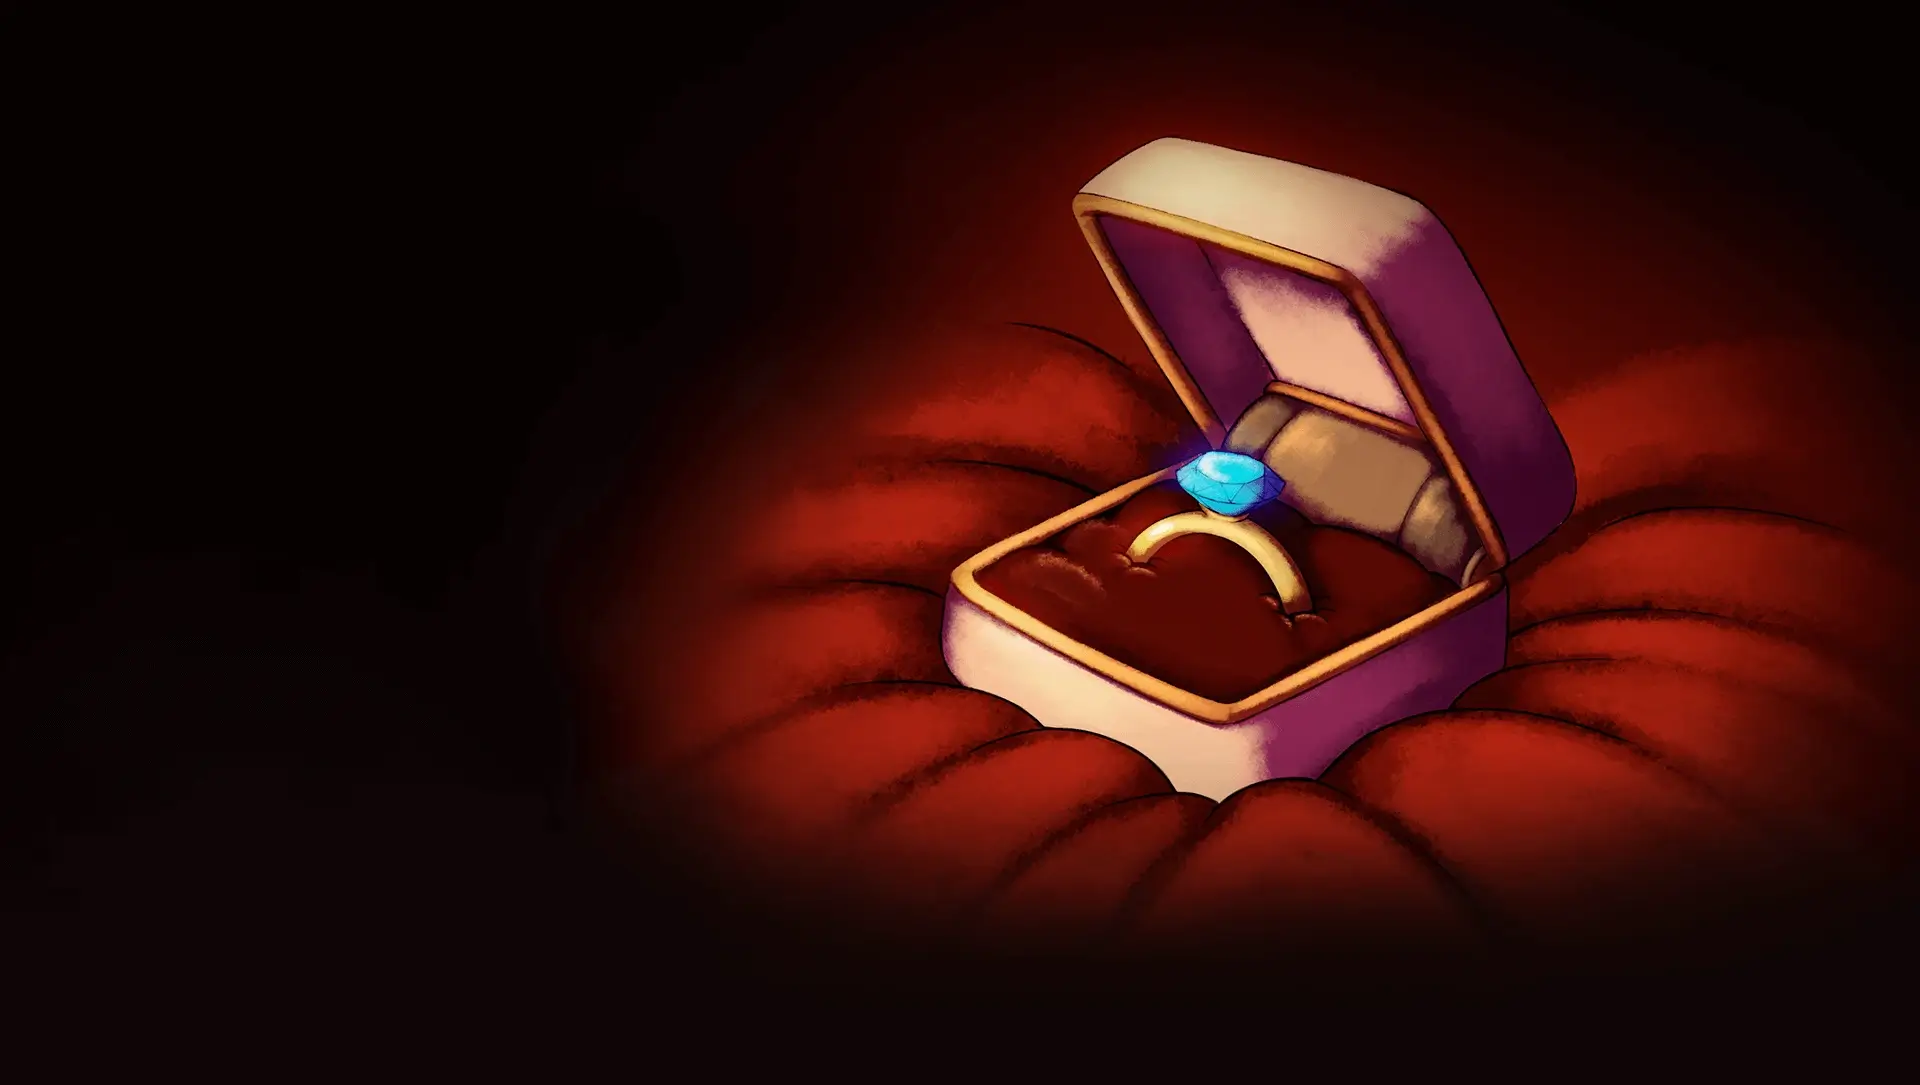
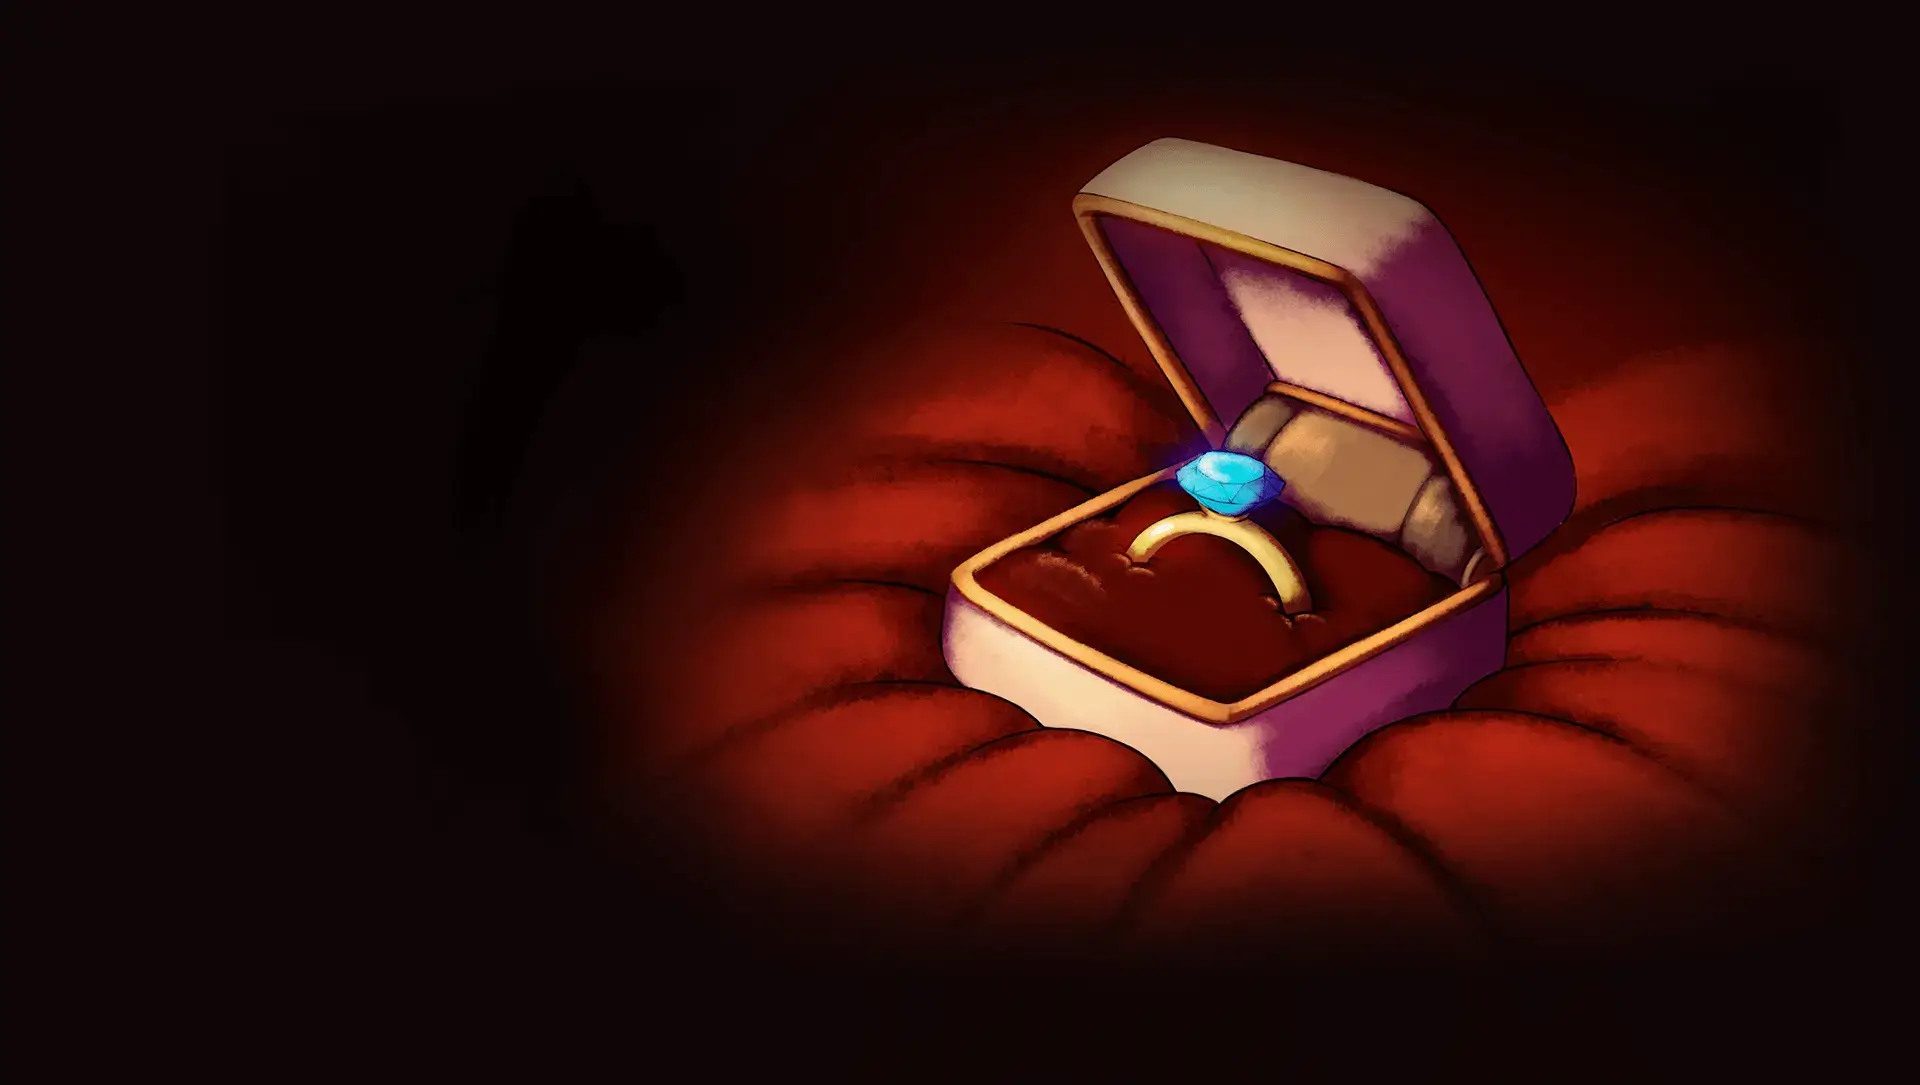
LOYALTY-REWARDS-enlarging-logged-in-hero-desktop

Changed region(s): [[0.875, 0.3346, 1.0, 0.73], [0.5625, 0.0912, 0.75, 0.2433]]

diff --git a/pages/logged-in-lr.html b/pages/logged-in-lr.html
@@ -18,29 +18,29 @@
 </head>
 <body>
   <section class="loyalty-rewards graphic-section" data-loyalty-rewards-section data-dark-mode="true">
+    <section class="lr-logged-in-hero" aria-labelledby="loyalty-rewards-logged-in-hero-section-id" data-lr-logged-in-hero-section>
+      <div class="lr-logged-in-hero__bg" data-lr-logged-in-hero-bg>
+        <img src="../images/lr-logged-in-hero-bg.webp" alt="A box in which there is a beautiful ring with the diamond on top">
+      </div>
+      <div class="lr-logged-in-hero__main-title" data-lr-logged-in-hero-main-title>
+        <img src="../images/lr-logged-in-hero-main-title.webp" alt="The main title of the hero section">
+        <h1 id="loyalty-rewards-logged-in-hero-section-id" class="visually-hidden">Loyalty Rewards</h1>
+      </div>
+      <div class="lr-logged-in-hero__points-count-and-redeem-btn">
+        <div class="lr-logged-in-hero__number-of-points" data-lr-logged-in-hero-points-count>
+          you have 
+          <span class="golden-letters">
+            <span data-lr-number-of-points>5250</span> 
+            smile points
+          </span>
+        </div>
+        <a href="#lr-take-actions-id" class="lr-logged-in-hero__redeem-link" data-lr-logged-in-hero-redeem-btn>
+          <div class="lr-logged-in-hero__redeem-link-bg-transitioning-elem"></div>
+          <div class="lr-logged-in-hero__redeem-link-text">redeem now</div>
+        </a>
+      </div>
+    </section>
     <div class="loyalty-rewards__wrapper">
-      <section class="lr-logged-in-hero" aria-labelledby="loyalty-rewards-logged-in-hero-section-id" data-lr-logged-in-hero-section>
-        <div class="lr-logged-in-hero__bg" data-lr-logged-in-hero-bg>
-          <img src="../images/lr-logged-in-hero-bg.webp" alt="A box in which there is a beautiful ring with the diamond on top">
-        </div>
-        <div class="lr-logged-in-hero__main-title" data-lr-logged-in-hero-main-title>
-          <img src="../images/lr-logged-in-hero-main-title.webp" alt="The main title of the hero section">
-          <h1 id="loyalty-rewards-logged-in-hero-section-id" class="visually-hidden">Loyalty Rewards</h1>
-        </div>
-        <div class="lr-logged-in-hero__points-count-and-redeem-btn">
-          <div class="lr-logged-in-hero__number-of-points" data-lr-logged-in-hero-points-count>
-            you have 
-            <span class="golden-letters">
-              <span data-lr-number-of-points>5250</span> 
-              smile points
-            </span>
-          </div>
-          <a href="#lr-take-actions-id" class="lr-logged-in-hero__redeem-link" data-lr-logged-in-hero-redeem-btn>
-            <div class="lr-logged-in-hero__redeem-link-bg-transitioning-elem"></div>
-            <div class="lr-logged-in-hero__redeem-link-text">redeem now</div>
-          </a>
-        </div>
-      </section>
       <section class="lr-not-logged-in-hero" aria-labelledby="loyalty-rewards-not-logged-in-hero-section-id" data-lr-not-logged-in-hero-section>
         <div class="lr-not-logged-in-hero__wrapper">
           <div class="lr-not-logged-in-hero__sup-title" data-lr-not-logged-in-hero-sup-title>

diff --git a/js/loyaltyRewards.js b/js/loyaltyRewards.js
@@ -1,18 +1,18 @@
 if (document.querySelector("[data-loyalty-rewards-section]")) {
   // DOM elements
-  const loyaltyRewardsSection = document.querySelector("[data-loyalty-rewards-section]");
-  const earnLoyaltyRewardsMainContent = loyaltyRewardsSection.querySelector("[data-lr-elr-main-content]");
-  const earnLoyaltyRewardsFooter = loyaltyRewardsSection.querySelector("[data-lr-elr-footer]");
-  const earningPointsMainContent = loyaltyRewardsSection.querySelector("[data-lr-ep-main-content]");
-  const takeActionsLoginBtn = loyaltyRewardsSection.querySelector("[data-lr-ta-login-btn]");
-  const takeActionsSignupBtn = loyaltyRewardsSection.querySelector("[data-lr-ta-signup-btn]");
+  var loyaltyRewardsSection = document.querySelector("[data-loyalty-rewards-section]");
+  var earnLoyaltyRewardsMainContent = loyaltyRewardsSection.querySelector("[data-lr-elr-main-content]");
+  var earnLoyaltyRewardsFooter = loyaltyRewardsSection.querySelector("[data-lr-elr-footer]");
+  var earningPointsMainContent = loyaltyRewardsSection.querySelector("[data-lr-ep-main-content]");
+  var takeActionsLoginBtn = loyaltyRewardsSection.querySelector("[data-lr-ta-login-btn]");
+  var takeActionsSignupBtn = loyaltyRewardsSection.querySelector("[data-lr-ta-signup-btn]");
 
   // variables
-  const onloadTransitionDelayStepShorter = 130;
-  const onloadTransitionDelayStepLarger = 200;
+  var onloadTransitionDelayStepShorter = 130;
+  var onloadTransitionDelayStepLarger = 200;
 
   // assign transition delays to the each row of specific side-by-side list
-  const elrLastIndexNotApplied = assignTransitionDelays(earnLoyaltyRewardsMainContent, 3, onloadTransitionDelayStepShorter);
+  var elrLastIndexNotApplied = assignTransitionDelays(earnLoyaltyRewardsMainContent, 3, onloadTransitionDelayStepShorter);
   earnLoyaltyRewardsFooter.style.transitionDelay = `${elrLastIndexNotApplied * onloadTransitionDelayStepShorter + onloadTransitionDelayStepLarger}ms`;
   assignTransitionDelays(earningPointsMainContent, 3, onloadTransitionDelayStepShorter);
 
